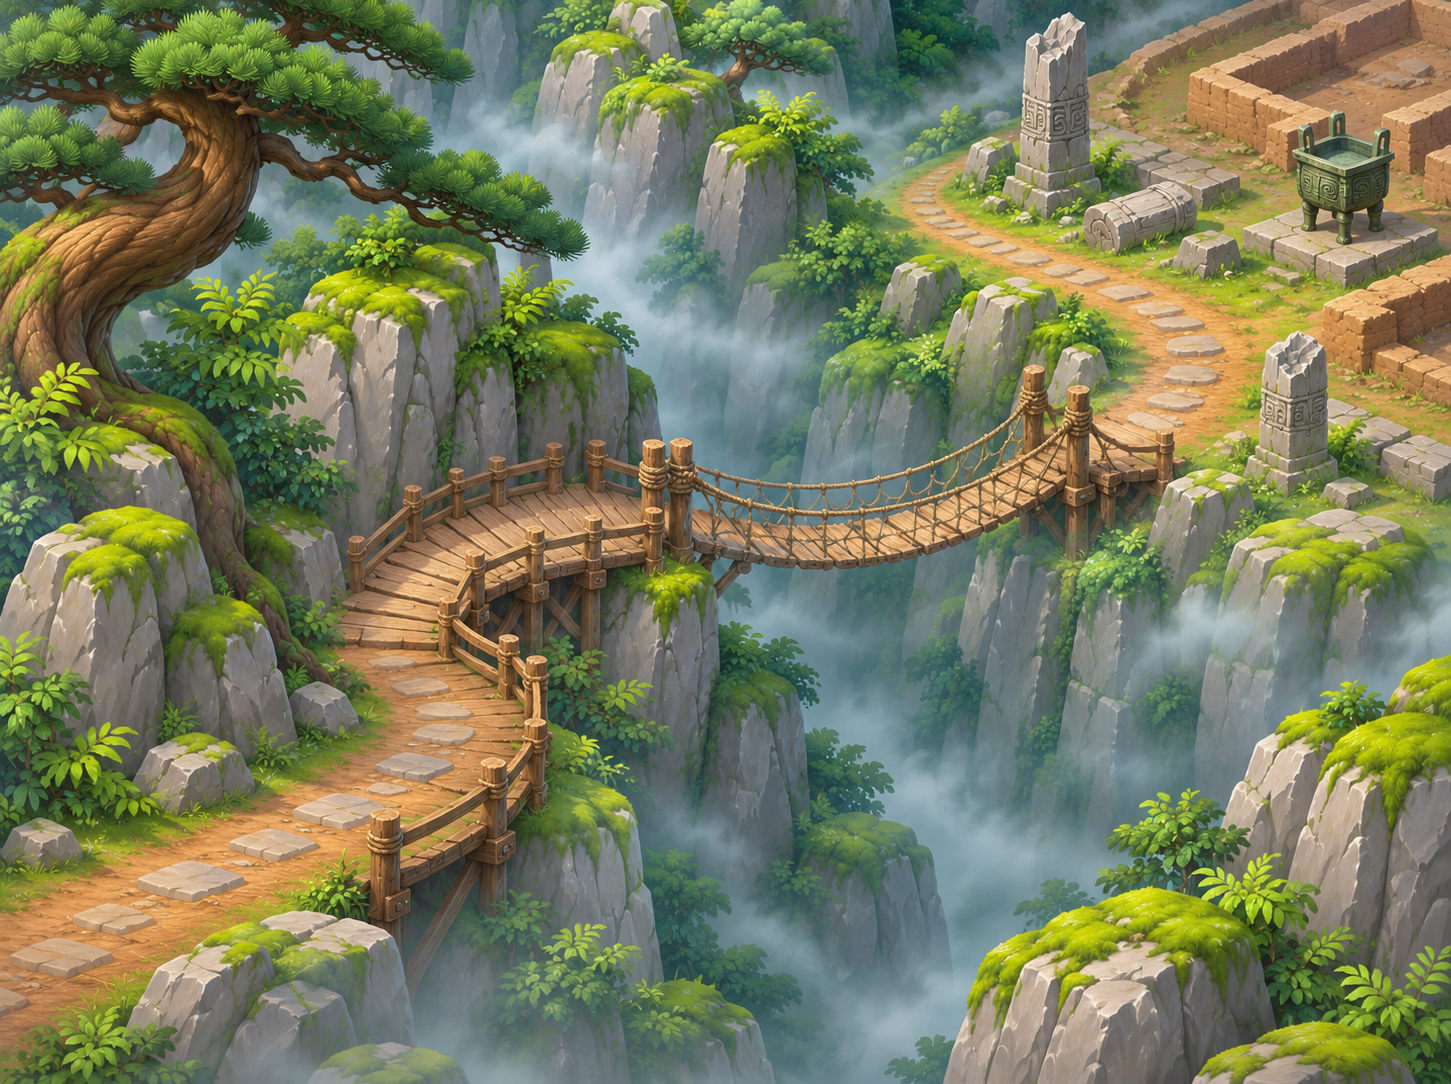
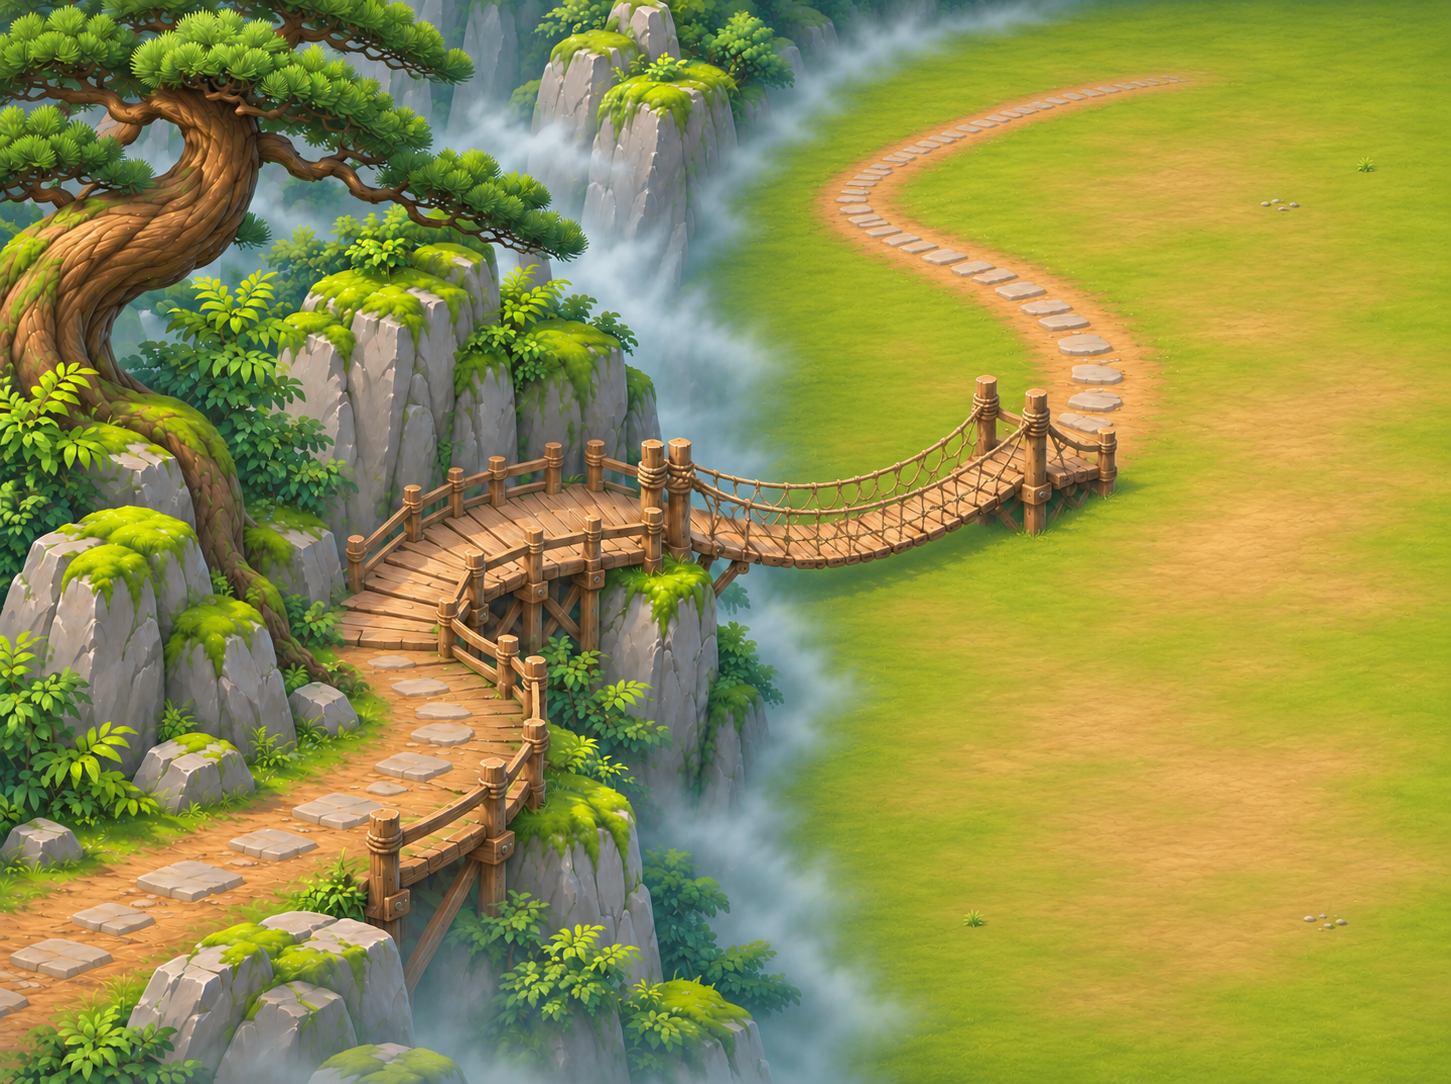
黔岭古道右侧改开阔空地、隐龙山改荒山；新增地图生成与接入脚本
Claude-Session: https://claude.ai/code/session_01Ug7SvjxsTvGWtWQTYLfcGg

diff --git a/tools/story_maps.py b/tools/story_maps.py
@@ -1,0 +1,219 @@
+#!/usr/bin/env python3
+# 50 级主线 8 张新地图：把 art-src/maps/<id>.png 放大到 2400 宽，生成 assets/bg_<id>.webp + mini 图，
+# 用下面手工描的可走区域 / 障碍 / 传送点生成 js/data.js 里的地图配置（夹在 // <story-maps> 标记之间），并做可达性检查。
+# 用法：python3 tools/story_maps.py            生成素材 + 配置 + 检查（叠图预览写到 $PREVIEW_DIR，默认 /tmp/story-maps）
+#       python3 tools/story_maps.py --check    只检查 + 出叠图，不写文件
+# 规格里的坐标一律是“预览坐标”（图宽 1200 的缩略图坐标），脚本乘以 2 变成数据坐标（= 放大后的底图像素）。
+import os, sys, json, re
+from PIL import Image, ImageDraw
+R = os.path.join(os.path.dirname(os.path.abspath(__file__)), '..')
+PREV = os.environ.get('PREVIEW_DIR', '/tmp/story-maps'); os.makedirs(PREV, exist_ok=True)
+W = 2400; F = W / 1200.0
+CHECK = '--check' in sys.argv
+
+# road: {r, pts} 走廊（半宽 r）；walk: 多边形；blocks: (x, y, r) 椭圆障碍（竖向压扁 0.6，和游戏一致）
+# portals: (to, name, at, arrive)；start 出生点；exit/back 只是备注
+MAPS = {
+ 'hejiang': dict(
+  name='合江村', note='两河交汇', world=[1180, 1900],
+  alt='两河交汇的小村：木拱桥横跨河面，岸边是茅屋、船坞和菜地，土路从河岸斜向远处',
+  walk=[
+   [(0,900),(0,700),(215,690),(240,650),(300,590),(330,520),(400,520),(500,545),(560,580),(640,620),(740,640),(800,660),(900,690),(1000,740),(1060,790),(1130,830),(1200,850),(1200,900)],
+   [(440,330),(470,235),(560,172),(900,172),(1000,110),(1100,45),(1200,30),(1200,330),(1100,385),(960,435),(840,420),(740,395),(700,380),(600,350),(520,330)],
+  ],
+  roads=[dict(r=48, pts=[(400,505),(560,460),(690,410)])],
+  blocks=[(885,830,32),(360,830,75),(1040,255,75),(1120,255,60),(870,322,36)],
+  start=(150,790),
+  portals=[('mist','回云雾谷',(80,830),None),('pine','回石松林',(250,850),None),('qianling','入黔岭古道',(1130,75),None)],
+  arrive={'mist':(150,800),'pine':(300,830),'qianling':(1060,110)}),
+ 'qianling': dict(
+  name='黔岭古道', note='险道通幽', world=[1180, 1900],
+  alt='云雾缭绕的险峻山岭：土路沿崖壁盘旋，栈道和索桥横跨深谷，对面是一大片开阔的青草坡地',
+  walk=[[(780,0),(1200,0),(1200,897),(760,897),(740,790),(720,650),(715,560),(720,470),(780,430),(840,420),(880,380),(830,330),(740,300),(720,200),(740,100)]],
+  roads=[dict(r=42, pts=[(0,800),(120,750),(230,692),(330,648),(390,610),(380,560),(340,500),(380,455),(470,430),(560,430),(680,415),(780,395),(880,370)])],
+  blocks=[],
+  start=(110,740), portals=[], arrive={}),
+ 'anyang': dict(
+  name='安阳废墟', note='残垣断壁', world=[1180, 1900],
+  alt='倾颓的古城废墟：断墙、倒柱和焦木之间一条黄土路，右上角是强盗扎下的营寨',
+  walk=[
+   [(0,0),(240,0),(262,112),(392,142),(412,262),(562,285),(602,338),(722,388),(862,388),(872,300),(882,172),(1200,162),(1200,282),(1002,292),(992,402),(902,437),(962,547),(1200,567),(1200,900),(880,900),(842,792),(782,690),(710,590),(620,545),(500,572),(482,592),(360,600),(250,548),(180,470),(0,440)],
+  ],
+  roads=[],
+  blocks=[(155,320,50),(205,410,130),(440,520,80),(45,190,55),(45,262,50),(510,215,110),(765,340,40),(1055,195,55),(1000,240,45),(1050,440,70)],
+  start=(1060,790),
+  portals=[('qianling','回黔岭古道',(1120,820),None),('handan','入邯郸城',(70,50),None)],
+  arrive={'qianling':(1060,790),'handan':(70,50)}),
+ 'handan': dict(
+  name='邯郸城', note='城内繁华', world=[1180, 1900],
+  alt='',
+  walk=[
+   [(470,190),(520,150),(700,150),(850,170),(880,300),(860,380),(700,420),(400,420),(350,380),(340,310),(470,300)],
+   [(700,500),(900,480),(1180,470),(1200,684),(740,684),(715,600)],
+   [(880,0),(1060,0),(1030,130),(1000,300),(990,400),(900,470),(830,420),(850,300),(870,150)],
+  ],
+  roads=[dict(r=60, pts=[(0,455),(300,455),(600,455),(720,440),(800,380),(850,300),(900,200),(960,100),(1000,0)])],
+  blocks=[(545,300,55),(690,215,50),(720,345,45),(480,335,30),(530,170,40),(395,330,18),(790,285,20)],
+  start=(100,455), portals=[], arrive={}),
+ 'shangshan': dict(
+  name='殇山', note='祭地阴森', world=[1180, 1900],
+  alt='',
+  walk=[
+   [(0,150),(120,140),(250,190),(330,280),(380,330),(330,420),(240,490),(130,520),(0,520)],
+   [(380,300),(500,290),(600,330),(740,350),(840,400),(860,480),(760,560),(620,640),(430,690),(260,700),(190,640),(150,540),(250,500),(330,420)],
+  ],
+  roads=[dict(r=70, pts=[(1130,40),(1060,130),(1010,230),(950,320),(890,400),(850,480),(780,540),(660,600),(520,640),(380,680),(250,720),(120,760),(0,790)])],
+  blocks=[(270,215,50),(50,450,50),(580,565,65),(630,240,45),(985,520,15)],
+  start=(1040,160), portals=[], arrive={}),
+ 'baishou': dict(
+  name='百兽谷', note='兽骨遍野', world=[1180, 1900],
+  alt='',
+  walk=[[(960,60),(1200,50),(1200,200),(1100,215),(1000,175)]],
+  roads=[dict(r=95, pts=[(20,840),(180,740),(330,650),(470,570),(600,500),(720,430),(800,360),(900,310),(1000,260),(1090,190),(1150,110),(1200,70)])],
+  blocks=[(1110,350,60),(440,700,70)],
+  start=(60,810), portals=[], arrive={}),
+ 'yinlong': dict(
+  name='隐龙山', note='荒山', world=[1180, 1900],
+  alt='光秃秃的荒山：风化的灰褐岩石和枯草之间只有一条被踩实的土路，盘旋向上通往山顶的岩台',
+  walk=[[(0,0),(390,0),(380,70),(300,110),(200,150),(100,130),(0,130)]],
+  roads=[dict(r=65, pts=[(1200,760),(1100,720),(1000,665),(900,610),(800,555),(700,515),(590,490),(510,430),(440,365),(380,295),(345,235),(320,175),(300,130),(250,95),(100,55)])],
+  blocks=[],
+  start=(1090,750), portals=[], arrive={}),
+ 'qingyang': dict(
+  name='青阳古城', note='古城外街', world=[1180, 1900],
+  alt='',
+  walk=[
+   [(0,0),(60,0),(130,55),(400,185),(560,290),(700,355),(860,420),(1000,465),(1200,540),(1200,590),(1050,545),(900,520),(780,555),(700,610),(560,684),(440,684),(420,600),(330,560),(300,470),(330,420),(300,330),(200,240),(0,230)],
+  ],
+  roads=[],
+  blocks=[(75,140,20),(335,380,20),(555,200,20)],
+  start=(120,80), portals=[], arrive={}),
+}
+
+LINKS = {
+ 'hejiang':  dict(start=(150,790), portals=[('mist','回云雾谷',(60,840),None),('pine','回石松林',(190,870),None),('qianling','入黔岭古道',(1130,75),None)],
+                  arrive={'mist':(150,790),'pine':(240,800),'qianling':(1060,110)}),
+ 'qianling': dict(start=(110,740), portals=[('hejiang','回合江村',(40,800),None),('anyang','入安阳废墟',(1120,70),None)],
+                  arrive={'hejiang':(110,745),'anyang':(1030,110)}),
+ 'anyang':   dict(start=(1060,780), portals=[('qianling','回黔岭古道',(1120,820),None),('handan','入邯郸城',(70,50),None)],
+                  arrive={'qianling':(1060,780),'handan':(150,100)}),
+ 'handan':   dict(start=(130,455), portals=[('anyang','回安阳废墟',(50,455),None),('shangshan','入殇山',(960,50),None)],
+                  arrive={'anyang':(130,455),'shangshan':(960,120)}),
+ 'shangshan':dict(start=(1040,160), portals=[('handan','回邯郸城',(1110,70),None),('baishou','入百兽谷',(40,775),None)],
+                  arrive={'handan':(1040,160),'baishou':(110,760)}),
+ 'baishou':  dict(start=(110,790), portals=[('shangshan','回殇山',(40,820),None),('yinlong','入隐龙山',(1140,110),None)],
+                  arrive={'shangshan':(110,790),'yinlong':(1060,140)}),
+ 'yinlong':  dict(start=(1090,750), portals=[('baishou','回百兽谷',(1160,790),None),('qingyang','入青阳古城',(80,50),None)],
+                  arrive={'baishou':(1060,740),'qingyang':(160,90)}),
+ 'qingyang': dict(start=(230,150), portals=[('yinlong','回隐龙山',(70,50),None)],
+                  arrive={'yinlong':(230,150)}),
+}
+for _k, _v in LINKS.items(): MAPS[_k].update(_v)
+# 世界地图上的位置（world.webp 2300×2300）：沿东侧田舍往北、再往西，和老地图的圆点错开
+WORLD = {'hejiang': [2045, 1431], 'qianling': [2134, 843], 'anyang': [2096, 435], 'handan': [1636, 307],
+         'shangshan': [1380, 153], 'baishou': [767, 383], 'yinlong': [332, 588], 'qingyang': [281, 843]}
+for _k, _w in WORLD.items(): MAPS[_k]['world'] = _w
+WEATHER = {'hejiang': 'clear: 4, rain: 2', 'qianling': 'clear: 2, rain: 3', 'anyang': 'clear: 3, rain: 1', 'handan': 'clear: 5, rain: 2',
+           'shangshan': 'clear: 2, storm: 2', 'baishou': 'clear: 4, storm: 1', 'yinlong': 'clear: 3, snow: 1', 'qingyang': 'clear: 4, rain: 2'}
+
+def S(p): return [round(p[0] * F), round(p[1] * F)]
+# 连到老地图的传送：到对方地图后的落点（数据坐标，对方地图自己的坐标系）。老地图那一头的传送点在 js/data.js 里手写。
+EXT = {('hejiang', 'mist'): [1110, 205], ('hejiang', 'pine'): [1190, 545]}
+def build_def(k, m):
+    ih = round(W * m['_h'] / m['_w'])
+    d = dict(name=m['name'], world=m['world'], note=m['note'], home='town', img='bg_' + k, mini='mini_' + k, iw=W, ih=ih, scale=1, k=1, start=S(m['start']), alt=m['alt'])
+    d['walk'] = [[S(p) for p in poly] for poly in m['walk']]
+    d['roads'] = [dict(r=round(r['r'] * F), pts=[S(p) for p in r['pts']]) for r in m['roads']]
+    d['blocks'] = [dict(at=S((b[0], b[1])), r=round(b[2] * F)) for b in m['blocks']]
+    d['glows'] = []
+    d['portals'] = []
+    for to, name, at, _ in m['portals']:
+        d['portals'].append(dict(to=to, name=name, at=S(at), arrive=None))
+    d['foes'] = []
+    return d
+
+def raster(d, step=8):
+    iw, ih = d['iw'], d['ih']; gw, gh = iw // step + 1, ih // step + 1
+    im = Image.new('L', (gw, gh), 0); dr = ImageDraw.Draw(im)
+    for poly in d['walk']: dr.polygon([(x / step, y / step) for x, y in poly], fill=255)
+    for r in d['roads']:
+        pts = r['pts']; rr = r['r'] / step
+        for a, b in zip(pts, pts[1:]): dr.line([(a[0]/step, a[1]/step), (b[0]/step, b[1]/step)], fill=255, width=max(1, round(rr * 2)))
+        for p in pts: dr.ellipse([p[0]/step-rr, p[1]/step-rr, p[0]/step+rr, p[1]/step+rr], fill=255)
+    for b in d['blocks']:
+        x, y, r = b['at'][0] / step, b['at'][1] / step, b['r'] / step
+        dr.ellipse([x - r, y - r * 0.6, x + r, y + r * 0.6], fill=0)
+    return im
+
+def reach(d, im, step=8):
+    gw, gh = im.size; px = im.load()
+    s = (d['start'][0] // step, d['start'][1] // step)
+    if px[min(s[0], gw-1), min(s[1], gh-1)] == 0: return None
+    seen = {s}; q = [s]
+    while q:
+        x, y = q.pop()
+        for dx, dy in ((1,0),(-1,0),(0,1),(0,-1)):
+            n = (x + dx, y + dy)
+            if 0 <= n[0] < gw and 0 <= n[1] < gh and n not in seen and px[n] > 0: seen.add(n); q.append(n)
+    return seen
+
+def main():
+    sizes = {}
+    for k, m in MAPS.items():
+        p = f'{R}/art-src/maps/{k}.png'
+        if not os.path.exists(p): continue
+        im = Image.open(p).convert('RGB'); m['_w'], m['_h'] = im.size; m['_im'] = im
+    defs = {}
+    for k, m in MAPS.items():
+        if '_im' not in m or not (m['walk'] or m['roads']): continue
+        d = build_def(k, m)
+        for i, (to, name, at, _) in enumerate(m['portals']):
+            arr = MAPS[to]['arrive'].get(k) if to in MAPS else None
+            d['portals'][i]['arrive'] = S(arr) if arr else EXT.get((k, to))
+        defs[k] = d
+        im = raster(d); seen = reach(d, im)
+        up = m['_im'].resize((W, d['ih']), Image.LANCZOS).convert('RGBA'); ov = Image.new('RGBA', up.size, (0, 0, 0, 0)); od = ImageDraw.Draw(ov)
+        st = 8; g = im.load()
+        for y in range(im.size[1]):
+            for x in range(im.size[0]):
+                if g[x, y] > 0: od.rectangle([x*st, y*st, x*st+st-1, y*st+st-1], fill=(0, 255, 0, 70) if (seen and (x, y) in seen) else (255, 160, 0, 90))
+        for b in d['blocks']: od.ellipse([b['at'][0]-b['r'], b['at'][1]-b['r']*0.6, b['at'][0]+b['r'], b['at'][1]+b['r']*0.6], outline=(255, 0, 0, 255), width=4)
+        s = d['start']; od.ellipse([s[0]-14, s[1]-14, s[0]+14, s[1]+14], fill=(255, 255, 0, 255))
+        ok = bool(seen); msgs = []
+        if not seen: msgs.append('出生点不可走')
+        for pt in d['portals']:
+            a = pt['at']; od.ellipse([a[0]-18, a[1]-18, a[0]+18, a[1]+18], fill=(0, 120, 255, 255)); od.text((a[0]+22, a[1]-8), pt['name'], fill=(255, 255, 255, 255))
+            c = (a[0] // 8, a[1] // 8)
+            if not seen or c not in seen: msgs.append('传送点不可达: ' + pt['name']); ok = False
+            ar = pt.get('arrive')
+            if ar:
+                od.ellipse([ar[0]-10, ar[0]*0+ar[1]-10, ar[0]+10, ar[1]+10], outline=(255, 255, 255, 255), width=3)
+        Image.alpha_composite(up, ov).convert('RGB').resize((1200, d['ih'] // 2)).save(f'{PREV}/ov_{k}.jpg', quality=85)
+        print(k, '可走', len(seen) if seen else 0, '格', 'OK' if ok and not msgs else msgs)
+    if CHECK: return
+    # 素材
+    for k, m in MAPS.items():
+        if '_im' not in m: continue
+        im = m['_im']; ih = round(W * im.height / im.width); big = im.resize((W, ih), Image.LANCZOS)
+        big.save(f'{R}/assets/bg_{k}.webp', quality=80, method=6)
+        big.resize((512, round(512 * ih / W)), Image.LANCZOS).save(f'{R}/assets/mini_{k}.jpg', quality=80)
+    p = f'{R}/js/assets.js'; s = open(p).read()
+    for k, m in MAPS.items():
+        if '_im' not in m: continue
+        for key, fn in (('bg_' + k, f'assets/bg_{k}.webp'), ('mini_' + k, f'assets/mini_{k}.jpg')):
+            if f'"{key}"' not in s: s = s.replace('"boar": "assets/boar.webp",', f'"{key}": "{fn}", "boar": "assets/boar.webp",', 1)
+    open(p, 'w').write(s)
+    # 地图配置
+    lines = []
+    for k, d in defs.items(): lines.append(f'    {k}: ' + json.dumps(d, ensure_ascii=False, separators=(',', ':')) + ',')
+    block = '    // <story-maps>\n' + '\n'.join(lines) + '\n    // </story-maps>\n'
+    p = f'{R}/js/data.js'; s = open(p).read()
+    if '// <story-maps>' in s: s = re.sub(r'    // <story-maps>.*?// </story-maps>\n', lambda _: block, s, flags=re.S)
+    else: s = s.replace('\n    taixuforest: {\n', '\n' + block + '    taixuforest: {\n', 1)
+    if '// <story-weather>' not in s:
+        s = s.replace("      outskirts: { clear: 4, rain: 2 },", "      outskirts: { clear: 4, rain: 2 },\n      // <story-weather>\n      // </story-weather>", 1)
+    wx = '      // <story-weather>\n' + ''.join(f'      {k}: {{ {v} }},\n' for k, v in WEATHER.items()) + '      // </story-weather>'
+    s = re.sub(r'      // <story-weather>.*?// </story-weather>', lambda _: wx, s, flags=re.S)
+    open(p, 'w').write(s); print('写入 js/data.js、assets/、js/assets.js')
+
+if __name__ == '__main__': main()
